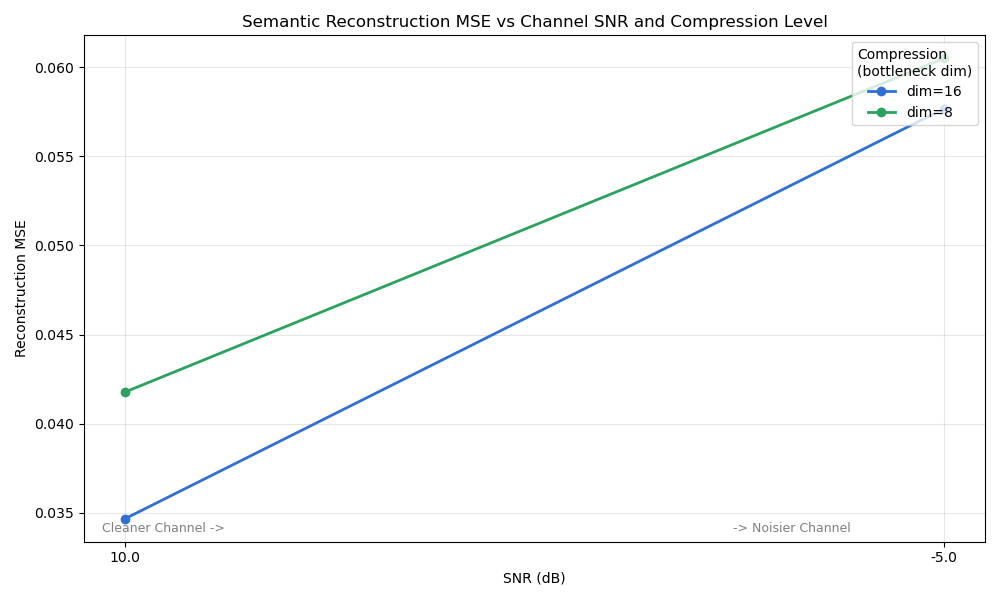
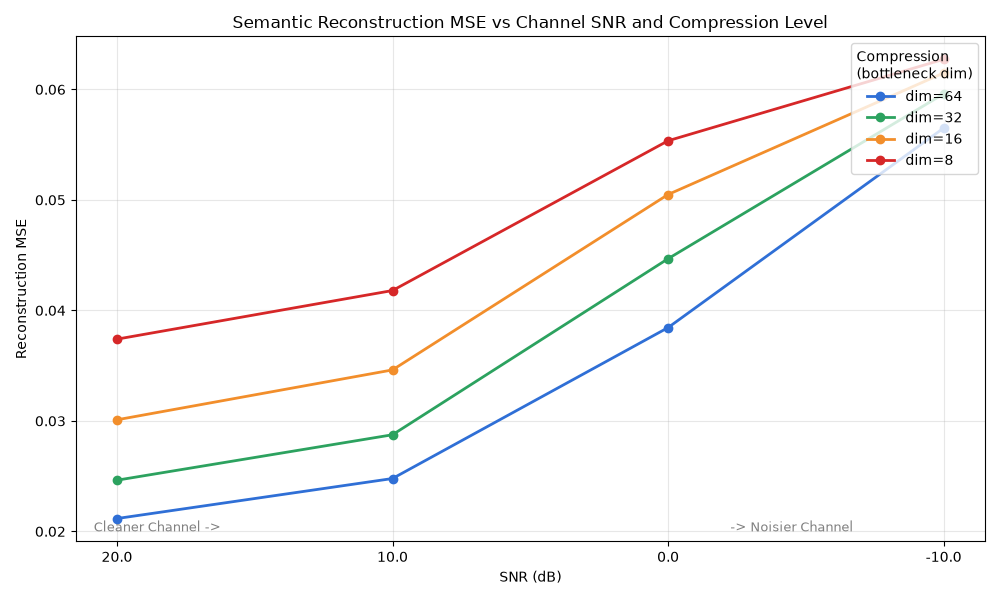
Show mse_sweep plots interactively, not just save to file
Drops the forced Agg backend so plt.show() can pop up a window;
also updates the committed plots to the full 4x4 dim x SNR sweep.

diff --git a/Tests/mse_sweep.py b/Tests/mse_sweep.py
@@ -22,8 +22,6 @@ sys.path.append(os.path.dirname(os.path.dirname(os.path.abspath(__file__))))
 
 import torch
 import torch.nn as nn
-import matplotlib
-matplotlib.use("Agg")
 import matplotlib.pyplot as plt
 
 import config
@@ -145,8 +143,8 @@ def main():
     ax.text(0.72, 0.02, "-> Noisier Channel", transform=ax.transAxes, color="gray", fontsize=9)
     plt.tight_layout()
     plt.savefig(line_path)
-    plt.close(fig)
     print(f"\n[DONE] Line plot saved -> {line_path}")
+    plt.show(block=False)
 
     # (B) Heatmap: full compression x SNR grid
     heat_path = os.path.join(out_dir, "mse_sweep_heatmap.png")
@@ -167,8 +165,8 @@ def main():
     fig.colorbar(im, ax=ax, label="MSE")
     plt.tight_layout()
     plt.savefig(heat_path)
-    plt.close(fig)
     print(f"[DONE] Heatmap saved -> {heat_path}")
+    plt.show()
 
     # Console summary table
     print("\n[SUMMARY] Reconstruction MSE (rows=dim, cols=SNR dB)")